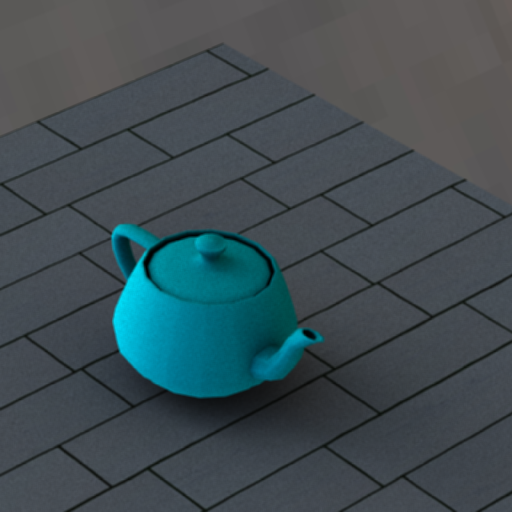
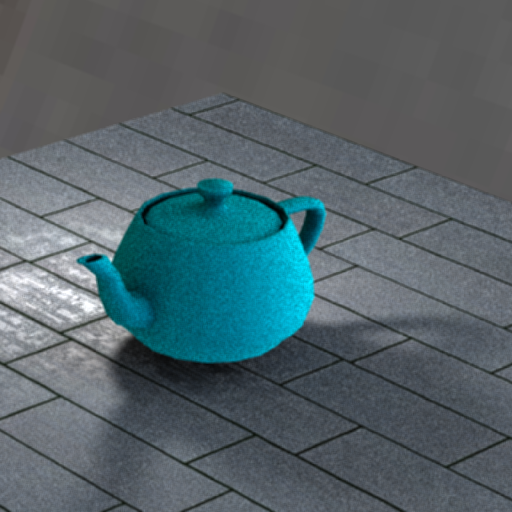
OrenNayar & Microfacet models, plastic material, and normal orientation fix

diff --git a/renders/README.md b/renders/README.md
@@ -3,6 +3,7 @@
 2) Adding in an infinite (environmental) light. 100 spp.
 3) Triangle mesh and really simple obj loader implemented. 100spp.
 4) + smoothing of vertex normals. Nice. 100spp.
-5) + stone image texture + rectanlges + 1,000 ssp.
-6) + bump map (finally correct but slow as all hell) + area light
-7) + stratified sampling (shuffling incorrectly)
+5) + stone image texture + rectanlges + 1,000 spp.
+6) + bump map (finally correct but slow as all hell) + area light 100 spp
+7) + stratified sampling (shuffling incorrectly, I think) 10x10 spp
+8) + OrenNayer & Plastic teapots 10x10 spp
